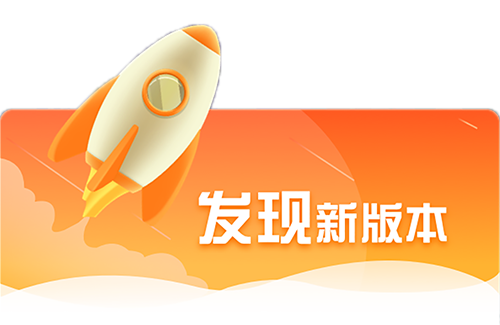
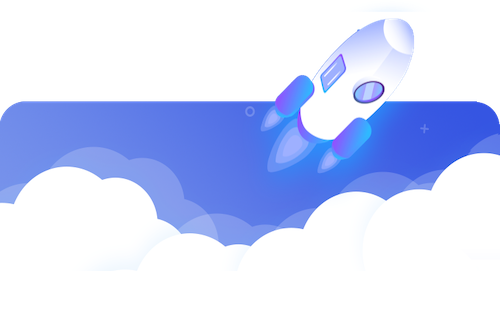
fix

diff --git a/components/weisifang/wsf-popup/wsf-popup.vue b/components/weisifang/wsf-popup/wsf-popup.vue
@@ -3,16 +3,17 @@
         <view @touchmove.stop.prevent="stop" class="tui-popup-show tui-popup-mask " v-if="mask" @tap="toggle">
         </view>
 
-        <view class="tui-popup-show tui-z_index tui-item-box" :style="{ top: top }">
+        <view class="tui-popup-show tui-z_index tui-item-box"
+            :style="{ left: left, right: right, bottom: bottom, top: top,position: position }">
             <!-- #ifdef APP-NVUE -->
             <list>
                 <!-- 注意事项: 不能使用 index 作为 key 的唯一标识 -->
                 <cell v-for="(item, index) in itemList" :key="item.title" class="tui-popup-item"
                     :class="{ 'tui-start': index === 0, 'tui-last': index === itemList.length - 1 }"
                     @tap="handleClick(item)">
-                    <!-- <tui-icon :name="item.icon" color="#fff" :size="40" unit="rpx"
-                        v-if="item.icon && !isImage"></tui-icon> -->
-                    <text :style="{ color: '#fff'}">{{item.title}}</text>
+                    <tui-icon class="nvue-item-icon" :name="item.icon" color="#fff" :size="45" unit="rpx"
+                        v-if="item.icon && !isImage"></tui-icon>
+                    <text class="nvue-item-text" :style="{ color: '#fff'}">{{item.title}}</text>
                 </cell>
             </list>
             <!-- #endif -->
@@ -45,7 +46,8 @@
                 default: () => {
                     return [{
                         title: '关闭',
-                        icon: 'close'
+                        icon: 'shut',
+                        type: 'close'
                     }];
                 }
             },
@@ -58,6 +60,22 @@
             top: {
                 type: String,
                 default: '12rpx'
+            },
+            right: {
+                type: String,
+                default: '12rpx'
+            },
+            left: {
+                type: String,
+                default: 'auto'
+            },
+            bottom: {
+                type: String,
+                default: 'auto'
+            },
+            position: {
+                type: String,
+                default: 'fixed'
             }
 
         },
@@ -96,13 +114,16 @@
 
 <style lang="scss" scoped>
     .tui-popup-item {
-        padding: 20rpx;
+        padding: 10rpx 20rpx;
         display: flex;
         align-items: center;
         font-size: 32rpx;
         position: relative;
         color: #fff;
         text-align: center;
+
+        flex-direction: row;
+        border-bottom: #666 solid 1rpx;
 
         &::after {
             position: absolute;
@@ -142,11 +163,6 @@
         background-color: #4c4c4c;
         border-radius: 8rpx;
         color: #fff;
-        position: fixed;
-        /* left: auto; */
-        right: 8px;
-        /* bottom: auto; */
-        top: 10rpx;
         transform: translate(0, 0)
     }
 
@@ -174,5 +190,17 @@
         /* #endif */
         opacity: 0;
         background-color: transparent;
+    }
+
+    .nvue-item-icon {
+        width: 55rpx;
+        height: 55rpx;
+    }
+
+    .nvue-item-text {
+        height: 55rpx;
+        flex: 1;
+        color: #fff;
+        padding-left: 8rpx;
     }
 </style>

diff --git a/components/app-upgrade/views/app-upgrade.vue b/components/app-upgrade/views/app-upgrade.vue
@@ -7,7 +7,7 @@
                         <view class="update-wrap">
                             <image src="../images/up1.png" class="top-img"></image>
                             <view class="content">
-                                <text class="title">发现新版本V{{update_info.version}}</text>
+                                <text class="title">发现新版本 V{{update_info.version}}</text>
                                 <!-- 升级描述 -->
                                 <view class="content-sub" v-html="update_info.note"></view>
                                 <!-- 升级按钮 -->
@@ -242,20 +242,24 @@
         display: flex;
         flex-direction: column;
         background-color: #ffffff;
+        // background-color: rgba(#000000, 0);
         padding: 170rpx 30rpx 0;
 
         .top-img {
             position: absolute;
             left: 0;
             width: 100%;
-            height: 256rpx;
-            top: -128rpx;
+            // height: 256rpx;
+            height: 100%;
+            top: -270rpx;
+            background-color: rgba(#000000, 0);
         }
 
         .content {
             display: flex;
             flex-direction: column;
             align-items: center;
+            background-color: #ffffff;
             padding-bottom: 40rpx;
 
             .title {

diff --git a/js_sdk/helper.js b/js_sdk/helper.js
@@ -124,8 +124,9 @@ const helper = {
         let platform = plus.os.name.toLocaleLowerCase();
         plus.runtime.getProperty(plus.runtime.appid, widgetInfo => {
             api.app.app_latest_version({
-                    platform: platform,
-                    version: widgetInfo.version //资源版本号
+                    platform: platform, // 操作系统：（android || ios)
+                    version: widgetInfo.version, //资源版本号 1.0.0
+                    version_value: widgetInfo.versionCode, //资源版本号 100
                 })
                 .then(res => {
                     if (res.code === 200 && res.data && res.data.latest && res.data.latest.url) {
@@ -136,12 +137,11 @@ const helper = {
                             }
                         })
                     } else {
-                        console.log('获取app/version:失败');
-
+                        // console.log('app version:无需更新');
                     }
                 })
                 .catch(e => {
-                    console.log('出错啦', e);
+                    console.log('检查更新出错啦', e);
                 });
         });
         // #endif

diff --git a/components/app-upgrade/js/app-update-check.js b/components/app-upgrade/js/app-update-check.js
@@ -9,7 +9,7 @@ export function checkUpdate(update_info, type = 0) {
             // console.log('当前版本', inf.version);
             // console.log('最新版本', update_info.version);
             let need_update = await compareVersion(inf.version, update_info
-            .version); // 检查是否需要升级（对比版本号）
+                .version); // 检查是否需要升级（对比版本号）
             if (!need_update) {
                 // return reolve({
                 // 	msg: "已经是最新版本了"
@@ -44,7 +44,6 @@ export function checkUpdate(update_info, type = 0) {
                     msg: ''
                 })
             }
-
             //弹出更新
             uni.navigateTo({
                 url: "/components/app-upgrade/views/app-upgrade?updata_info=" + JSON

diff --git a/components/app-upgrade/images/readme.md b/components/app-upgrade/images/readme.md
@@ -1,0 +1,3 @@
+# 更新图片说明
+
+up开头的更新图片推荐使用透明背景的 png图片，且图片尺寸为 500*325
